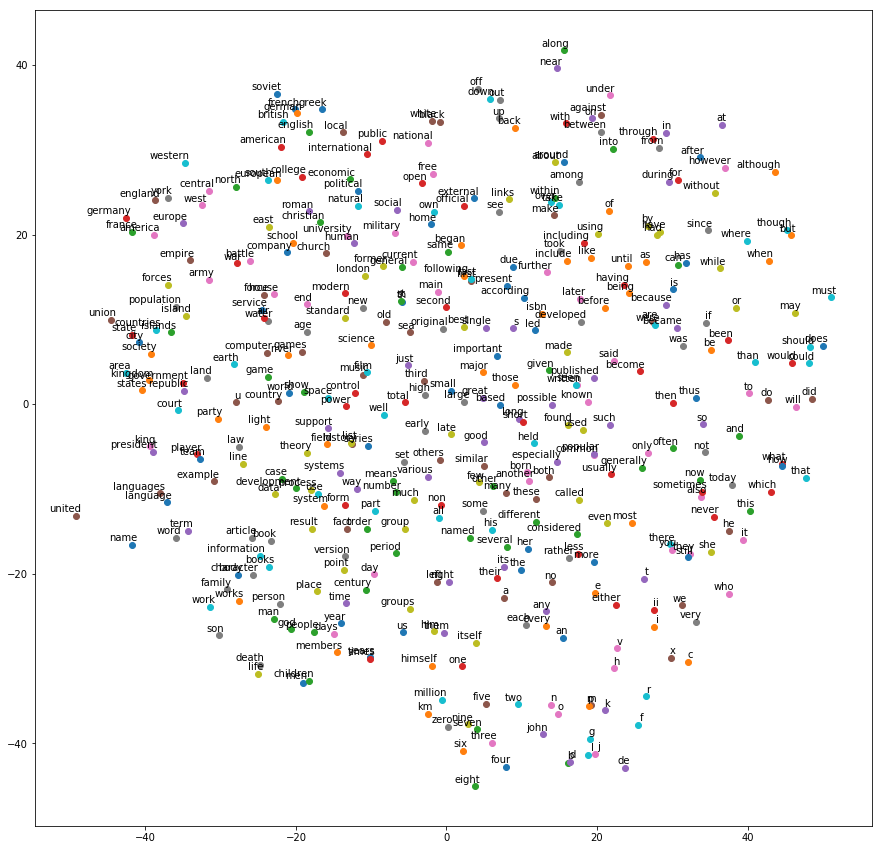
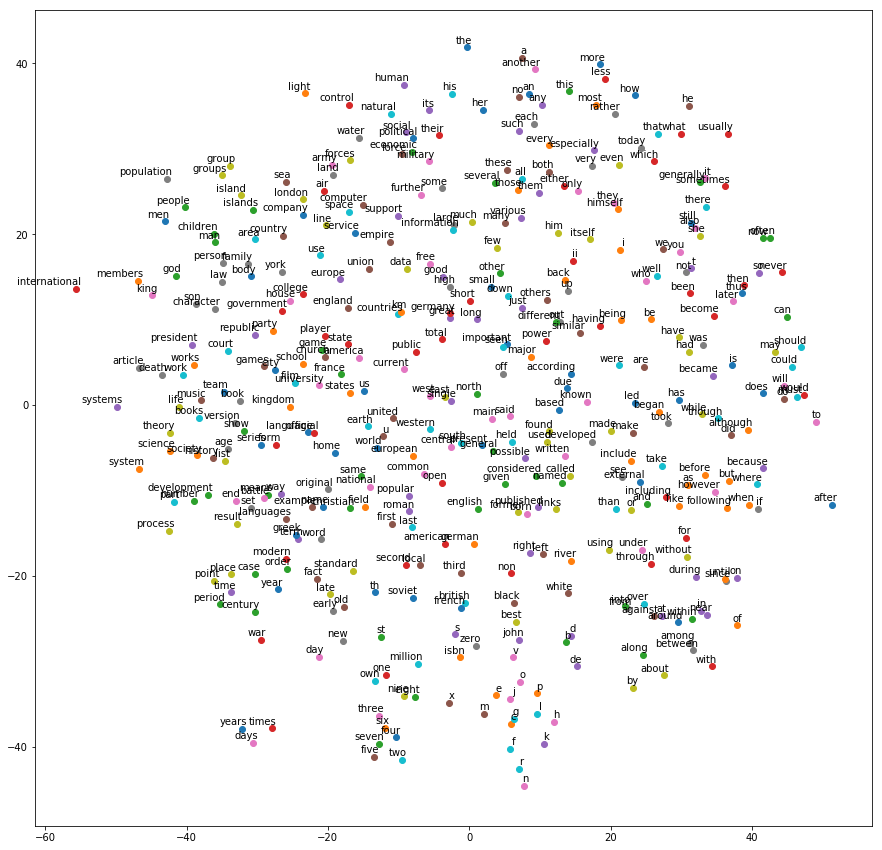
adjust CBOW

diff --git a/CBOW.py b/CBOW.py
@@ -73,37 +73,25 @@ def generate_batch(batch_size, scan_num, scan_window):
     global data_index
     assert batch_size % scan_num == 0
     assert scan_num <= 2 * scan_window
-    batch = np.ndarray(shape=(batch_size), dtype=np.int32)
-    labels = np.ndarray(shape=(batch_size), dtype=np.int32)
+    batch = np.ndarray(shape=(batch_size, scan_num), dtype=np.int32)
+    labels = np.ndarray(shape=(batch_size, 1), dtype=np.int32)
     span = 2 * scan_window + 1
     buffer = collections.deque(maxlen=span)
     for _ in range(span):
         buffer.append(data[data_index])
         data_index = (data_index + 1) % len(data)
-    for i in range(batch_size // scan_num):  # loop for word
+    for i in range(batch_size):
         select = scan_window
         selected_list = [scan_window]
+        labels[i, 0] = buffer[scan_window] # label is target word
         for j in range(scan_num):
             while select in selected_list:
                 select = random.randint(0, span - 1)
             selected_list.append(select)
-            batch[i * scan_num + j] = buffer[select]
-            labels[i * scan_num + j, 0] = buffer[scan_window]
+            batch[i, j] = buffer[select] # batch is words near target
         buffer.append(data[data_index])
         data_index = (data_index + 1) % len(data)
     return batch, labels
-    # for i in range(batch_size):
-    #     select = scan_window
-    #     selected_list = [scan_window]
-    #     labels[i] = buffer[scan_window] # label is target word
-    #     for j in range(scan_num):
-    #         while select in selected_list:
-    #             select = random.randint(0, span - 1)
-    #         selected_list.append(select)
-    #         batch[i, j] = buffer[select]
-    #     buffer.append(data[data_index])
-    #     data_index = (data_index + 1) % len(data)
-    # return batch, labels
 
 
 # # CONFIG
@@ -121,11 +109,12 @@ valid_examples = np.array(random.sample(range(valid_window), valid_size)) # rand
 
 
 # # MODEL
-train_dataset = tf.placeholder(tf.int32, shape=[batch_size])  # 128*1
+train_dataset = tf.placeholder(tf.int32, shape=[batch_size, scan_num])  # 128*1
 train_labels = tf.placeholder(tf.int32, shape=[batch_size, 1])  # 128*1*1
 valid_dataset = tf.constant(valid_examples, dtype=tf.int32) # 16*1 random list from 0~100
 embeddings = tf.Variable(tf.random_uniform([vocabulary_size, word_vector_dim], -1.0, 1.0)) # 50,000*128 = vector for all words
 embed = tf.nn.embedding_lookup(embeddings, train_dataset) # transfer train_dataset to word vector (128*1) => (128*128)
+embed_sum = tf.reduce_sum(embed, axis=1)
 softmax_weights = tf.Variable(tf.truncated_normal([vocabulary_size, word_vector_dim], stddev=1.0 / math.sqrt(word_vector_dim))) # 50,000*128
 softmax_biases = tf.Variable(tf.zeros([vocabulary_size])) # 50,000*1
 # weights(50,000*128) X inputs(128*128) + biases(50,000*1) => 50,000*128 = result for each trainning sample
@@ -140,7 +129,7 @@ softmax_biases = tf.Variable(tf.zeros([vocabulary_size])) # 50,000*1
     #    labels[0] = 1*1 = index of correct answer
 # apply sampled_softmax_loss for faster train
 loss = tf.reduce_mean(
-    tf.nn.sampled_softmax_loss(weights=softmax_weights, biases=softmax_biases, inputs=embed,
+    tf.nn.sampled_softmax_loss(weights=softmax_weights, biases=softmax_biases, inputs=embed_sum,
                                 labels=train_labels, num_sampled=num_sampled, num_classes=vocabulary_size))
 optimizer = tf.train.AdagradOptimizer(1.0).minimize(loss)
 

diff --git a/README.md b/README.md
@@ -89,7 +89,7 @@ Epoch: 101 cost= 137.499377324
 #### estimated probability of each words close to the target word
 - data  : http://mattmahoney.net/dc/text8.zip
 - layer : target word -> embedding to vector(embedding matrix * target word one-hot-encoding) 
-            -> linear model(W*V + b) = probability for each word close to target -> softmax -> loss = cross entropy with label
+            -> linear model(W*V + b) = probability for each word connect to target -> softmax -> loss = cross entropy with label
 - additional : Sampled Softmax
 - optimizier : AdagradOptimizer
 ```
@@ -107,32 +107,31 @@ Nearest to 'state' : city, states, territory, republic, shadowed, drum, gums, fr
 ### CBOW
 #### estimated target word base on input words
 - data  : http://mattmahoney.net/dc/text8.zip
-- layer : input word(near target) ->  embedding to vector -> probability of target word -> softmax -> loss = cross entropy with label
+- layer : input words(connect to target) ->  sum(embedding input to vector) -> probability of target word -> softmax -> loss = cross entropy with label
 - additional : Sampled Softmax
 - optimizier : AdagradOptimizer
 ```
-* 20000 Average loss : 3.51610079776
-Nearest to more : most, less, rather, keeper, cosmopolitan, furthered, very, decrees, 
-* 40000 Average loss : 3.43651606227
-Nearest to more : less, most, rather, very, keeper, greater, decrees, denied, 
-* 60000 Average loss : 3.42005304038
-Nearest to more : less, rather, most, very, smaller, larger, greater, better, 
-* 80000 Average loss : 3.35409456922
-Nearest to more : less, rather, most, very, smaller, fewer, better, larger, 
-* 100000 Average loss : 3.32275327043
-Nearest to more : less, most, very, fewer, fairly, rather, better, larger, 
+2017-08-11 06:13:47.023828 20000 Average loss : 3.12684643236
+2017-08-11 06:15:05.418864 40000 Average loss : 2.92018117781
+2017-08-11 06:16:23.582389 60000 Average loss : 2.83985439647
+2017-08-11 06:17:41.905487 80000 Average loss : 2.76869805927
+2017-08-11 06:18:59.665008 100000 Average loss : 2.57371024392
+Nearest to eight : nine, seven, six, four, five, three, zero, two, 
+Nearest to often : usually, sometimes, generally, commonly, frequently, typically, actually, now, 
 ```
-![Imgur](http://i.imgur.com/fqoJF03.png)
+![Imgur](http://i.imgur.com/mcQzxyH.png)
 
 ---
 ### RNN
 
 
 
+### TensorBoard
+
+
 - additional : L2 regularization
 - additional : Xavier initialization
 - optimizier : decayed learning rate
-TensorBoard
 
 
 ### GAN
